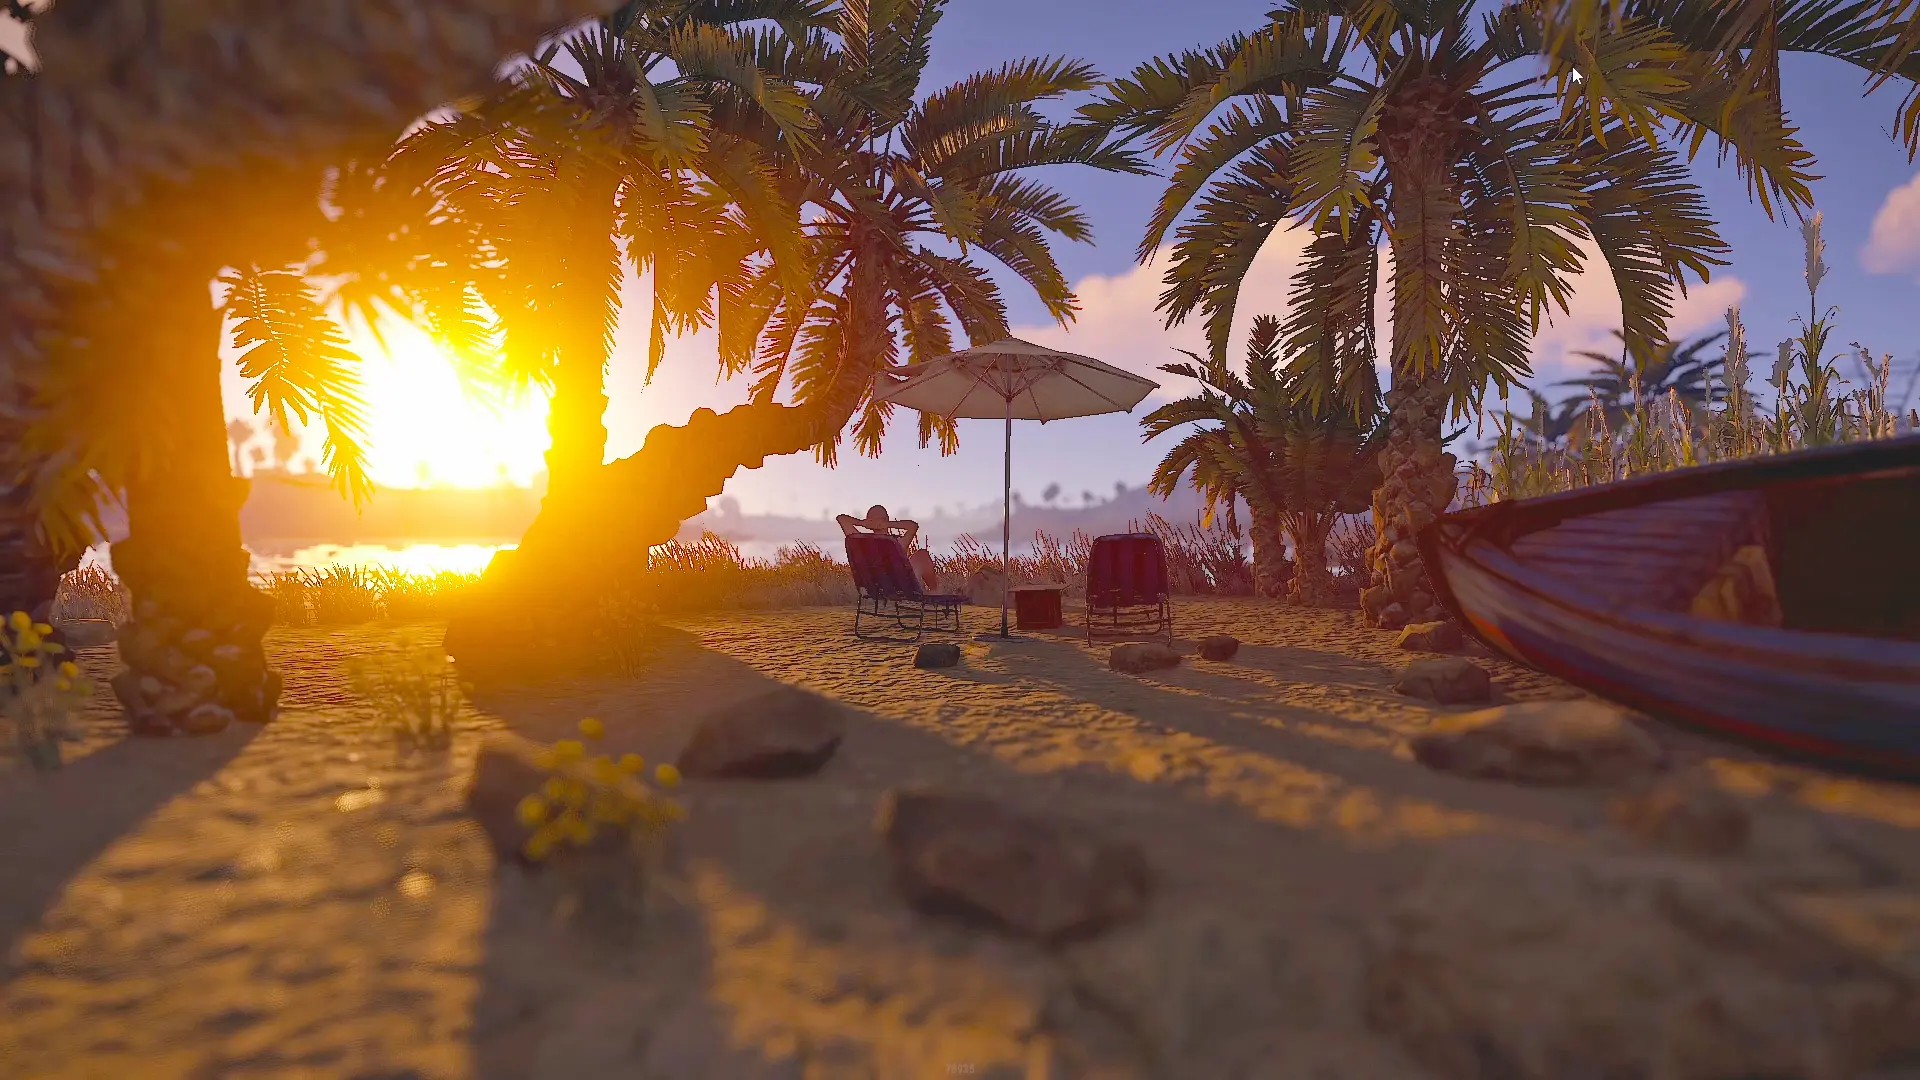
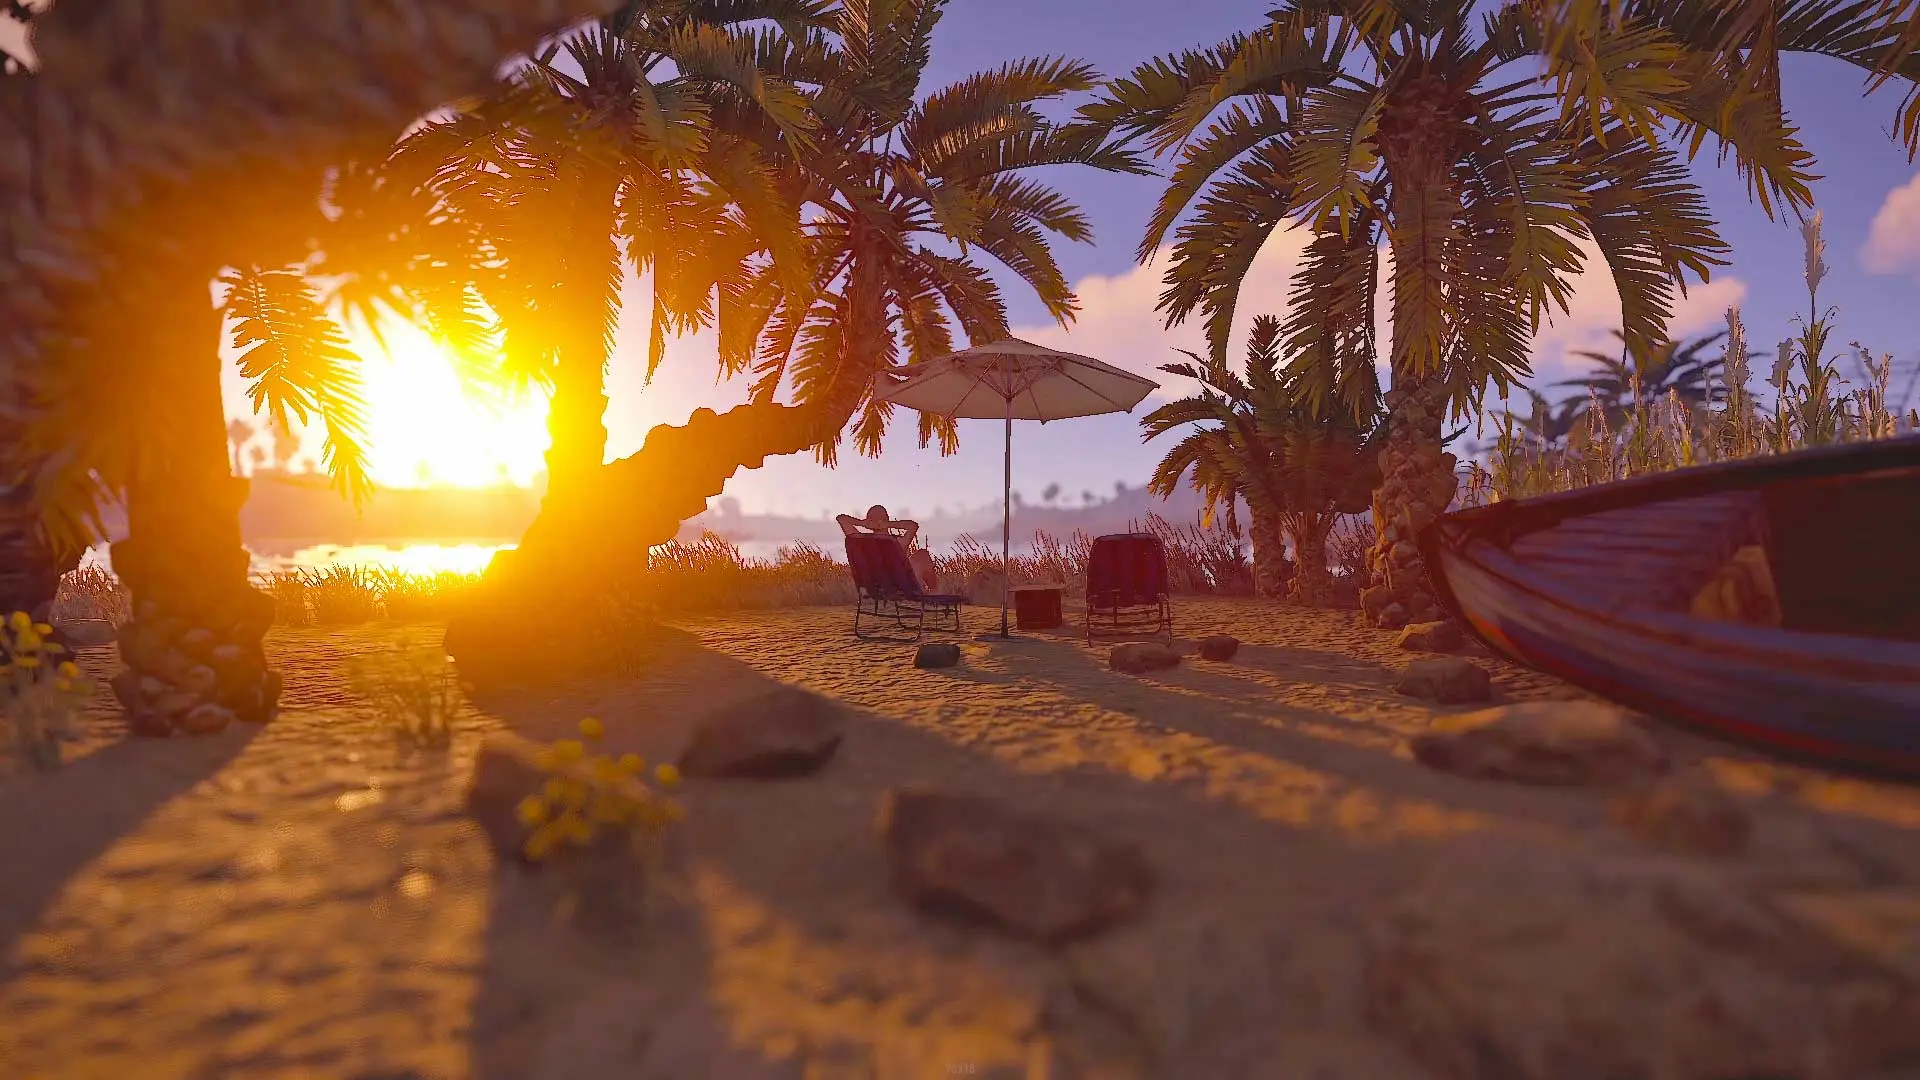
v2.1
changed fort api, linked wrong one, fixed mouse in screenshot beach file

diff --git a/index.html b/index.html
@@ -513,7 +513,7 @@
                 });
 
             // Fetch server population data from BattleMetrics API for Fortnightly Server
-            const apiUrlFortnightly = 'https://api.battlemetrics.com/servers/14801137';
+            const apiUrlFortnightly = 'https://api.battlemetrics.com/servers/28843361';
             const serverAddressFortnightly = 'connect au.fortnightly.rustralia.com.au:28015';
 
             fetch(apiUrlFortnightly)
